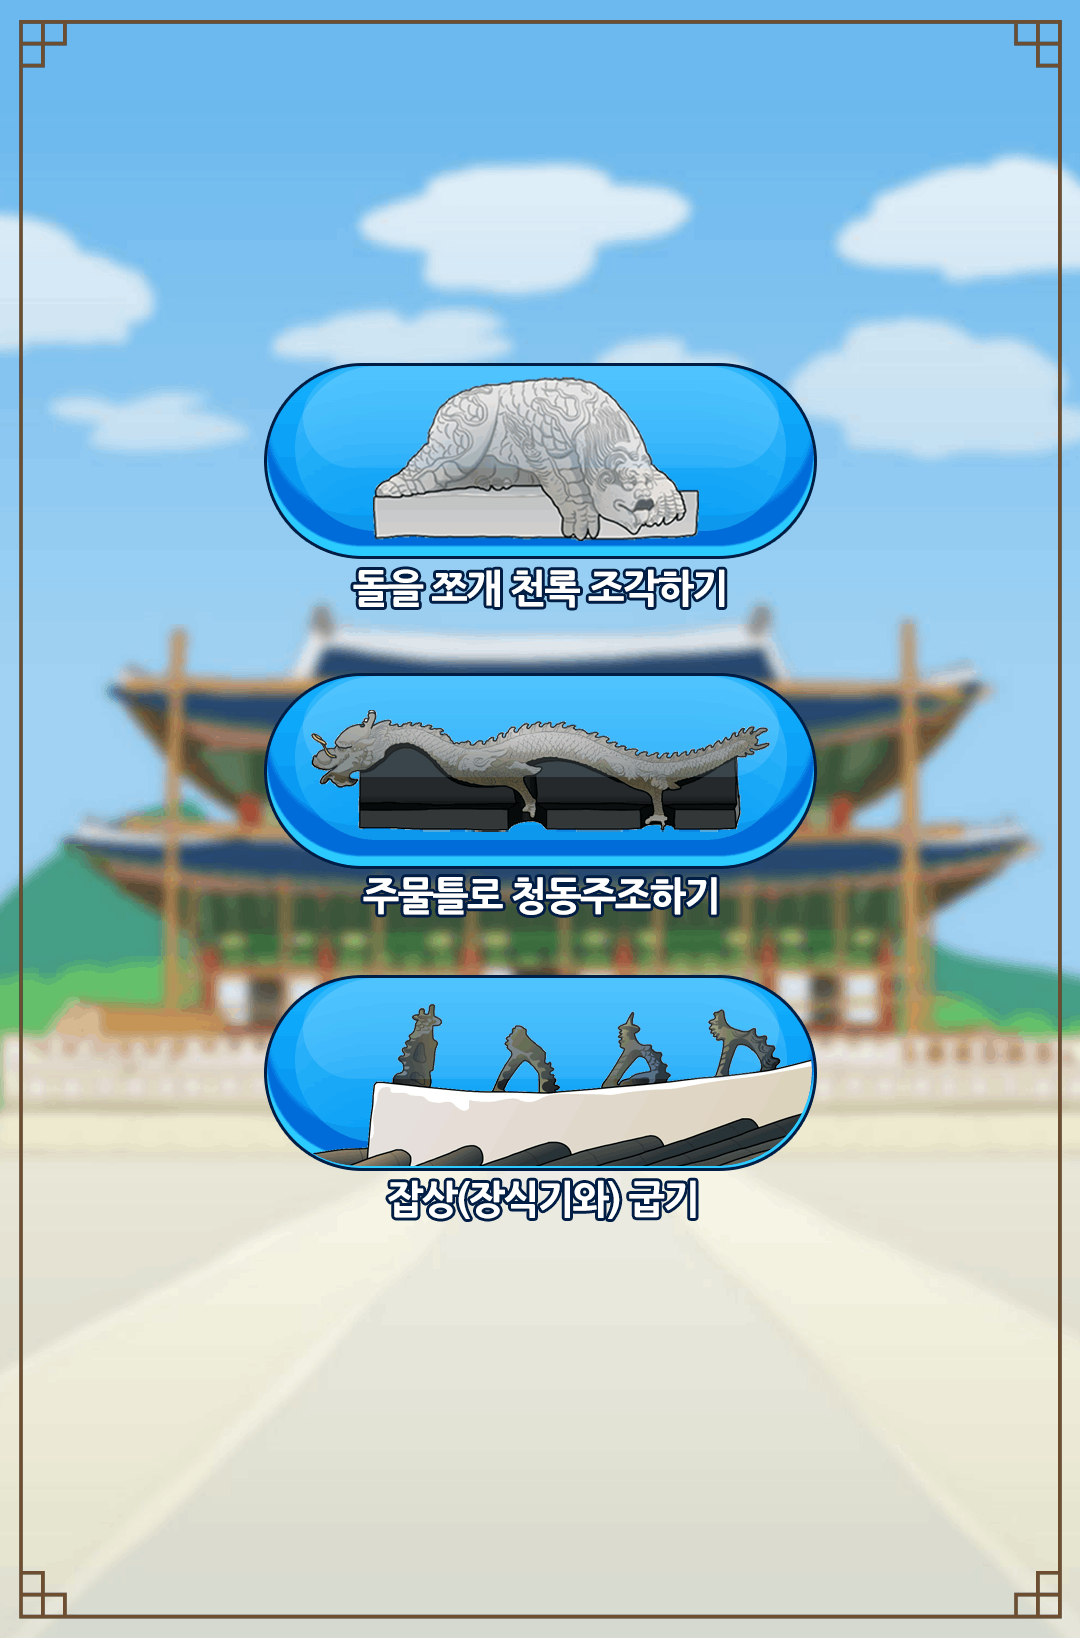
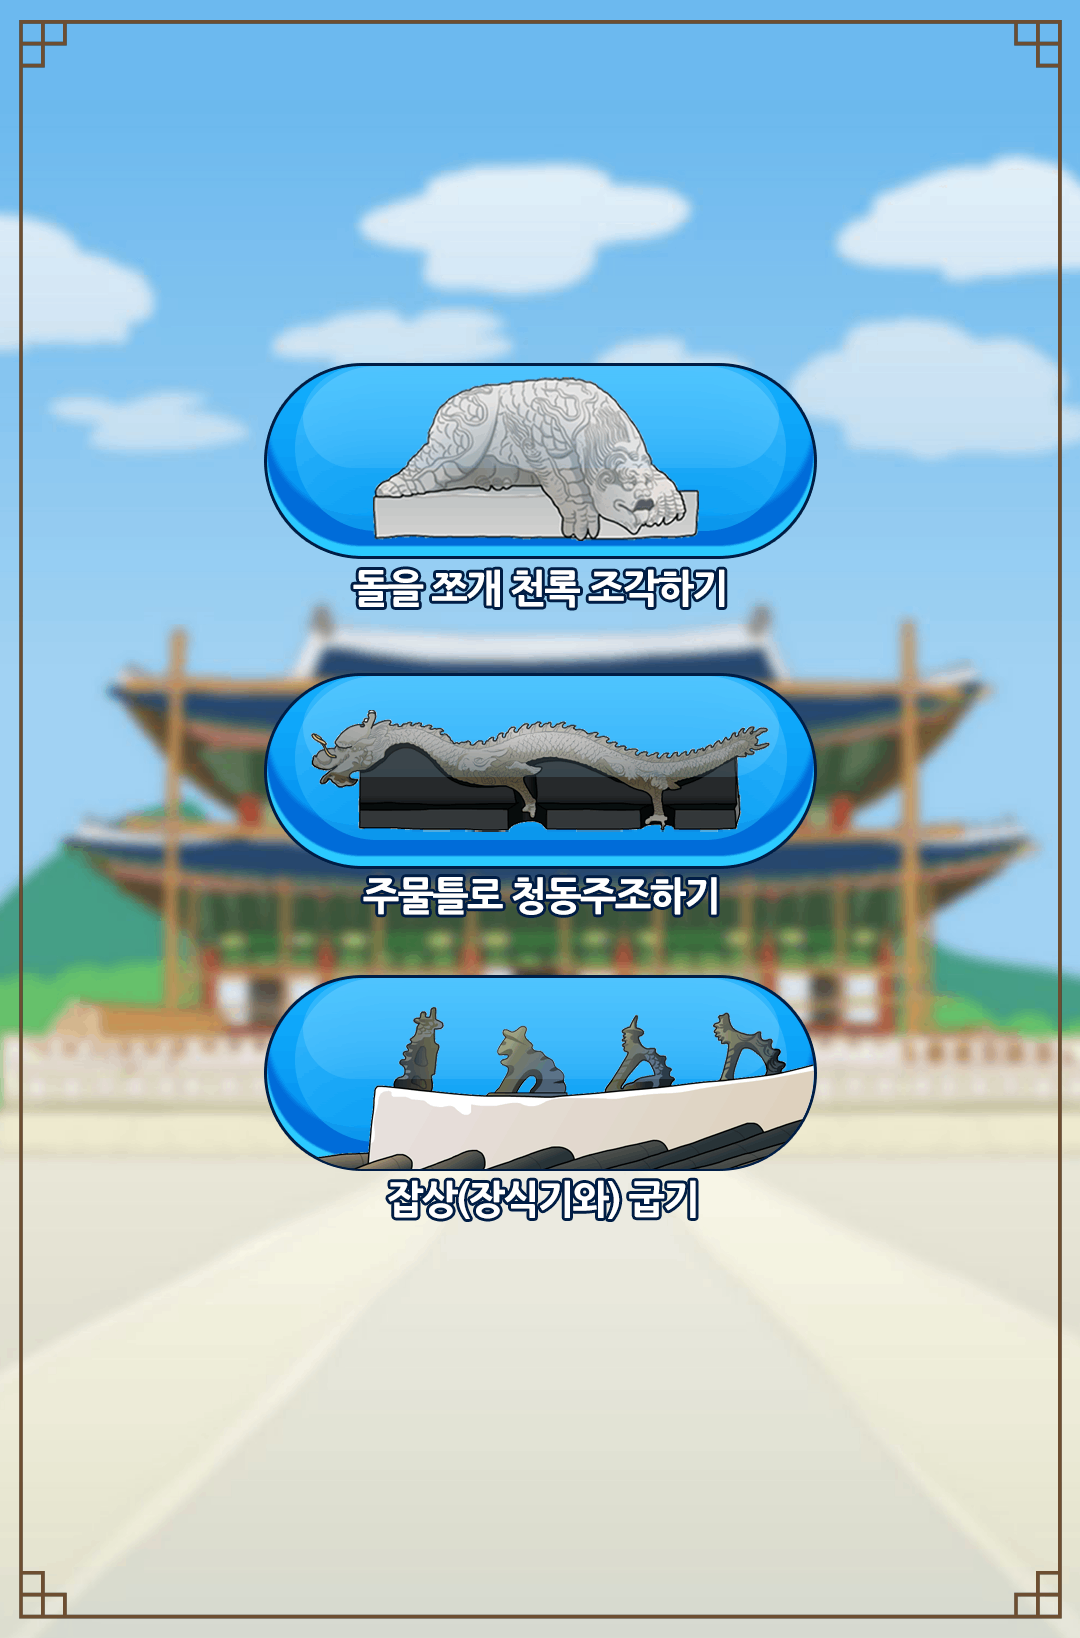
1. 메뉴 이미지 변경 2. userout timer 표시기능 추가 3.

Changed region(s): [[0.3056, 0.6227, 0.7639, 0.7161]]

diff --git a/threeGame/js/menu.js b/threeGame/js/menu.js
@@ -2,7 +2,7 @@
 let status = "intro"; // 초기 상태는 "인트로 화면"
 const loadingTime = 100;
 const dev_video_delay = 1;
-const outCheckTime = 15;
+const outCheckTime = 999;
 
 // 개발 모드 변수 설정
 const isDevMode = true;
@@ -21,7 +21,9 @@ class userOutController {
         });
     }
     start(){
+        
         this.interval = setInterval(() => {
+            document.getElementById('user-out-timer').textContent = this.current_out_check_time;
             this.current_out_check_time--;
             if(this.current_out_check_time < 0 ){
                 if(status == 'intro'){
@@ -52,6 +54,7 @@ class userOutController {
                     this.current_out_check_time = this.default_out_check_time;
                 }
             }
+            document.getElementById('user-out-timer').textContent = this.current_out_check_time;
             // console.log(this.current_out_check_time + '초 남음');
         } , 1000);
     }
@@ -60,10 +63,24 @@ class userOutController {
         clearInterval(this.interval);
         this.interval = undefined;
     }
-    
+
+    showTimer(){
+        document.getElementById('user-out-timer').classList.remove('hide');
+    }
+
+    hideTimer(){
+        document.getElementById('user-out-timer').classList.add('hide');
+    }
+
+    toggleTimer(){
+        // 타이머 표시 여부에 따라 전환
+        document.getElementById('user-out-timer').classList.toggle('hide');
+    }
+
     currnet_time_reset(){
         console.log('user out reset');
         this.current_out_check_time = this.default_out_check_time;
+        document.getElementById('user-out-timer').textContent = this.current_out_check_time;
     }
 }
 
@@ -94,6 +111,7 @@ class VideoController {
         }
         this.video.style.display = 'block'; // 비디오 표시
         this.video.muted = false;
+        this.video.volume = 1;
         this.video.play();
 
         // if(this.devCallBack){
@@ -242,6 +260,7 @@ const showGameMenu = () => {
         ()=>{                           // fade-in  성공 시 콜백 실행
             status = 'game-menu-select';
             userOut.currnet_time_reset();
+            userOut.toggleTimer();
         }, 
     );
     // console.log('1111');

diff --git a/threeGame/js/timeController.js b/threeGame/js/timeController.js
@@ -1,5 +1,5 @@
 // 타이머 관련 컨트롤러
-const timerSecond = 999;
+const timerSecond = 30;
 
 class TimerController {
     constructor(timerElement , time) {
@@ -64,9 +64,12 @@ class TimerController {
         }else{
           // 타임아웃 일때
           status = 'game-timeout';
-          userOut.currnet_time_reset();
           this.hide();
           this.isPause = true;
+
+          userOut.currnet_time_reset();
+          userOut.showTimer();
+
           showTimeoutPopup('' , '' , true);
           
           // 하드코딩...
@@ -111,16 +114,15 @@ function showGameClearPop(title, message , isTimeStop) {
     const popup = document.getElementById('popup');
     const popupTitle = document.getElementById('popup-title');
     const popupMessage = document.getElementById('popup-message');
+
+    // 팝업 오버레이 보이기
+    popup.className = 'popup-overlay2';
     
     popupTitle.textContent = title;
     popupMessage.textContent = message;
     popup.style.display = 'flex';
 
     
-    // 팝업 오버레이 보이기
-    popup.className = 'popup-overlay2';
-
-
     // 재시작 버튼 보여지게하기
     document.getElementById('game-restart-button').style.display = 'none';
 
@@ -146,6 +148,7 @@ function addEventListenerPopButton(){
 
         // 인터렉티브 초기화
         userOut.currnet_time_reset();
+        userOut.hideTimer();
         
         // 타이머 초기화 & 시작
         timerController.reset();
@@ -182,6 +185,9 @@ function inGameBodyReset(){
 
 function goMenu(){
   status='game-menu-select';
+
+  userOut.currnet_time_reset();
+  userOut.hideTimer();
   closePop();
   timerController.reset();
   getGameObject().videoController.reset();
@@ -212,6 +218,7 @@ function goMenu(){
               },
               () => {     // in complete callback
                   userOut.currnet_time_reset();
+                  userOut.showTimer();
                   console.log('status : ' + status);
               }                    
           );

diff --git a/threeGame/js/inGame.js b/threeGame/js/inGame.js
@@ -209,6 +209,8 @@ const gameIntroVideoEndCallback = () => {
 const game1EndVideoEndCallback = () => {
     console.log('game1EndVideoEndCallback');
 
+    userOut.currnet_time_reset();
+    userOut.showTimer();
     // 게임성공 팝업 띄우기
     showGameClearPop('','',true);
 }
@@ -248,6 +250,8 @@ const inGameBodyFadeInCompleteCallback = () => {
 // 인트로 스크린 페이드 아웃 시작 콜백
 const introScreenFadeOutStartCallback = () => {
     introVideo.reset();
+    // 타이머 숨기기
+    userOut.hideTimer();
 }
 
 // 인트로 스크린 페이드 아웃 완료 콜백
@@ -297,7 +301,11 @@ const inGameScreenFadeInCompleteCallback = () => {
 
 // 게임 화면 전환 함수
 const convertGameScreen = (gameId) => {
+
+    // 게임 화면 전환
     gameConfig.current_gameId = gameId;
+    
+    // 인트로 화면 페이드 아웃
     controlContainerFadeInOut('out' , document.querySelector('.intro_container') , introScreenFadeOutStartCallback , introScreenFadeOutCompleteCallback);
 };
 
@@ -506,9 +514,11 @@ function game1BoxTouchEvent(box) {
     if(!checkGauge()){
         shakeGauge();
         audioController.failSound();
+        setTimeout(() => {
+            // 중복 터치 방지
+            gameConfig.game1.isTargetTouch = false;
+        }, 300);
 
-        // 중복 터치 방지
-        gameConfig.game1.isTargetTouch = false;
         return;
     }
 
@@ -563,6 +573,8 @@ function game1BoxTouchEvent(box) {
 
         if(gameCompletion['A-box'] && gameCompletion['B-box'] && gameCompletion['C-box']){
             console.log('게임 완료');
+
+            timerController.pause();
     
             // game_body fade out
             controlContainerFadeInOut('out' , document.querySelector('.game_body') , 

diff --git a/threeGame/threeGame.html b/threeGame/threeGame.html
@@ -16,6 +16,8 @@
 <body>
     <div id="progress-container"></div>
 
+    <div class="user-timer-section hide" id="user-out-timer"></div>
+
     <div class="intro_container hide">
 
         <div class="game-menu-container" id="game-menu-container">
@@ -23,7 +25,7 @@
             </div>
         </div>
         <!-- 첫 번째 비디오 -->
-        <video id="introVideo">
+        <video id="introVideo" disablePictureInPicture>
             <source src="./assets/video/game_menu_intro.mp4" type="video/mp4">
         </video>
 
@@ -43,7 +45,7 @@
         <div class="game_body" id="game_body">
         </div>
 
-        <video id="gameIntroVideo" muted>
+        <video id="gameIntroVideo">
             <source src="" type="video/mp4">
         </video>
     </div>

diff --git a/threeGame/css/inGame.css b/threeGame/css/inGame.css
@@ -260,6 +260,29 @@
     opacity: 0;
   }
 
+
+  .user-timer-section{
+    display: flex;
+    justify-content: center;
+    align-items: center;
+    width: 210px;
+    height: 99px;
+    position: absolute;
+    left: 435px;
+    top: 35px;
+    font-size: 38pt;
+    background-color: black;
+    border-radius: 20px;
+    color: #66ff33;
+    font-weight: bold;
+    z-index: 1100;
+
+  }
+  .user-timer-section.hide{
+    display: none !important;
+    opacity: 0;
+  }
+
   .game1_shadow{
     width: 916px;
     height: 179px;

diff --git a/threeGame/css/style.css b/threeGame/css/style.css
@@ -145,3 +145,7 @@ video {
     height: 100%;
     background-color: yellow;
 }
+
+video::-webkit-media-text-track-container {
+    display: none !important;
+}
